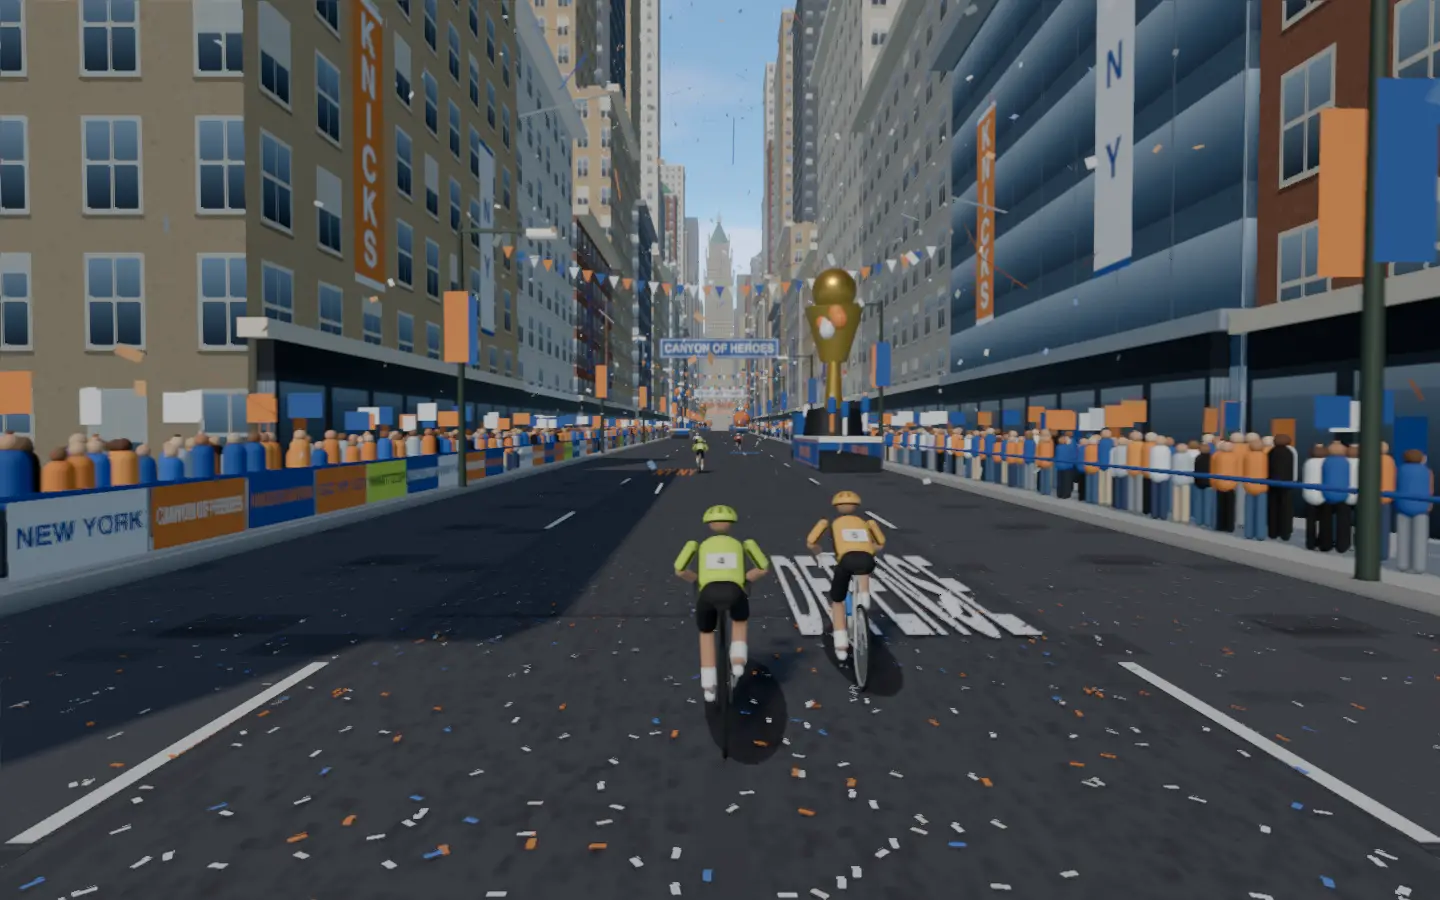
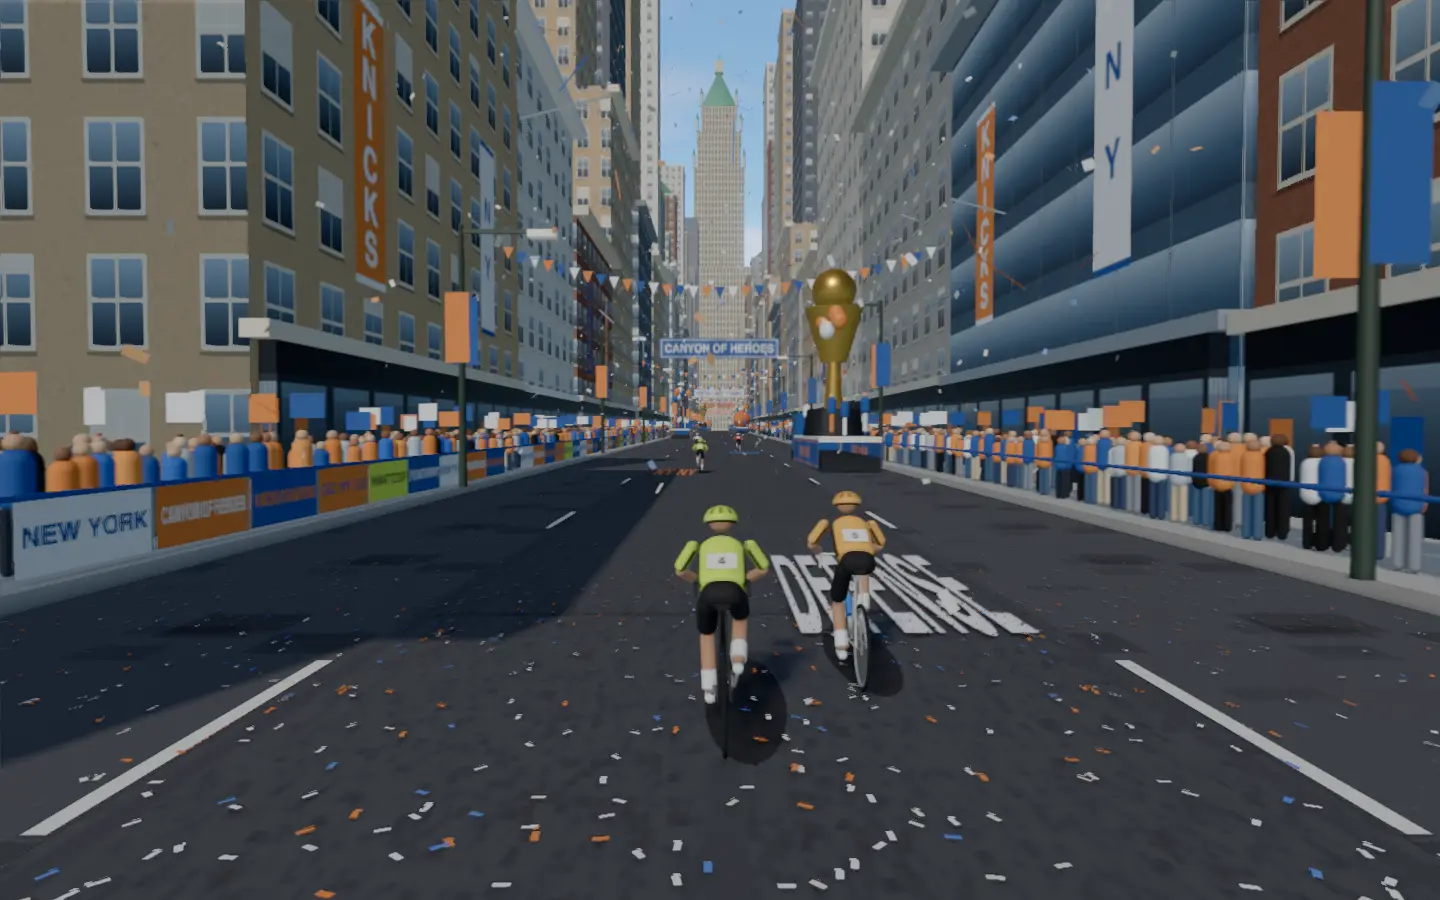
Raise the Woolworth Building over the Canyon of Heroes
The Woolworth stands 600 m ahead instead of 820 m, a quarter larger again,
with half the haze, and its verdigris crown lifted so it reads green against
the sky at the canyon's vanishing point.
Render quality 76% -> 80% (hero landmark 10 -> 13, description fidelity 7 -> 8).

diff --git a/frontend/projects/wattzup/src/app/core/world-knicks.ts b/frontend/projects/wattzup/src/app/core/world-knicks.ts
@@ -72,7 +72,7 @@ const STREAMERS = 320;
 const TAPE_SPAN = 170;
 const TAPE_TOP = 44;
 /** The Woolworth Building closes the canyon ahead, hazed by hand. */
-const WOOLWORTH_AHEAD = 820;
+const WOOLWORTH_AHEAD = 600;
 const HAZE = 0xbfcbd6;
 const ORANGE = '#f58426';
 const BLUE = '#1d4f9c';
@@ -819,9 +819,14 @@ export class KnicksStreet implements SceneStreet {
     const terra = this.track(terracottaTexture());
     terra.wrapS = RepeatWrapping;
     terra.wrapT = RepeatWrapping;
-    const cream = hazedMaterial(this.disposables, haze, 0xf1ead9, 0.28, { map: terra });
-    const plain = hazedMaterial(this.disposables, haze, 0xe9e1cd, 0.3);
-    const copper = hazedMaterial(this.disposables, haze, 0x5f9e86, 0.22, { metalness: 0.2 });
+    const cream = hazedMaterial(this.disposables, haze, 0xf1ead9, 0.14, { map: terra });
+    const plain = hazedMaterial(this.disposables, haze, 0xe9e1cd, 0.16);
+    // The verdigris crown catches the high sun, so it reads green against the sky.
+    const copper = hazedMaterial(this.disposables, haze, 0x5fae8e, 0.1, {
+      metalness: 0.2,
+      emissive: new Color(0x3f8a6c),
+      emissiveIntensity: 0.35,
+    });
     const w = this.woolworth;
     const stage = (width: number, height: number, depth: number, y: number) => {
       const geometry = new BoxGeometry(width, height, depth);
@@ -879,6 +884,7 @@ export class KnicksStreet implements SceneStreet {
     spire.scale.set(1.4, 2.8, 1.4);
     spire.position.y = 202;
     w.add(lantern, spire);
+    w.scale.setScalar(1.25);
     this.group.add(w);
   }
 

diff --git a/docs/class-worlds.md b/docs/class-worlds.md
@@ -13,7 +13,7 @@ Every class in `frontend/public/classes.json`, with its World Ride scene. Render
 | 7 | Calorie Burning Workout | South Beach Sunrise | 80% | Pastel art deco hotels with neon fins face palms, lifeguard towers and the Atlantic along Miami Beach's Ocean Drive at sunrise. The two-minute opener and the six short efforts each chase the rising sun up a rise toward the deco tower at the end of the drive. |
 | 8 | Intense Interval Blast | Caribana Parade | 55% | Toronto's Lake Shore Boulevard at Caribbean Carnival; steel pans and feathered masqueraders, each interval a surge between bands. |
 | 9 | Quick But Brutal HIIT | Trinidad J'Ouvert (concept) |  | Port of Spain before dawn at Carnival, paint and mud flying; each sprint breaks through a soca crowd. |
-| 10 | Sprintavals | Knicks Championship Parade | 76% | Ticker tape and orange and blue streamers drift down between the towers of lower Broadway's Canyon of Heroes as fans pack the barricades for the Knicks' championship parade, the Woolworth Building's copper crown rising at the far end. The four long builds reel in the floats rolling up Broadway, and the five ten-second sprints each jump from one float to the next before the last surge toward the Woolworth. |
+| 10 | Sprintavals | Knicks Championship Parade | 80% | Ticker tape and orange and blue streamers drift down between the towers of lower Broadway's Canyon of Heroes as fans pack the barricades for the Knicks' championship parade, the Woolworth Building's copper crown rising at the far end. The four long builds reel in the floats rolling up Broadway, and the five ten-second sprints each jump from one float to the next before the last surge toward the Woolworth. |
 | 11 | Time Is of the Essence | Westminster Rush Hour | 60% | London at dusk beneath Big Ben; race black cabs and red buses before the clock chimes. |
 | 12 | 15-Minute Smash Fest | Rio Sambadrome (concept) |  | Carnival night in Rio; glittering samba schools fill the runway and every smash rides the drum line. |
 | 13 | 10 On 20 Off Max Sprints | Venice Beach Boardwalk (concept) |  | Skaters, street performers and palm-lined sand; ten-second sprints, twenty seconds cruising the ocean breeze. |

diff --git a/docs/detailed-designs/world-ride/draw-class-scene/README.md b/docs/detailed-designs/world-ride/draw-class-scene/README.md
@@ -134,7 +134,7 @@ None.
   - blue-railed barricades hung with the parade's banners, packed behind with the shared crowd in orange and blue waving orange, blue and white flags; street lamps carrying banner pairs, banners slung across the canyon on wires and strings of orange, blue and white pennants;
   - six parade floats rolling up the outer lanes at 2.2 m/s, so the riders reel them in one after another: a blue tractor unit pulling a flatbed skirted in the parade's colours, carrying a giant basketball, a gold trophy or a champions' board, with balloons tied above and five players (`Figures`) jumping on the deck;
   - ticker tape (2,800 scraps) and streamers (320) falling, fluttering and tumbling through the canyon on the street's clock, held still under reduced motion;
-  - the canyon running on into the haze past the loop, and the Woolworth Building closing it ahead: its cream terra-cotta base, the tower stepping back with Gothic pinnacles at every corner, and its copper pyramid crown with a lantern and spire, hazed by hand.
+  - the canyon running on into the haze past the loop, and the Woolworth Building closing it 600 m ahead, about 300 m to the tip: its cream terra-cotta base, the tower stepping back with Gothic pinnacles at every corner, and its verdigris copper pyramid crown with a lantern and spire, lifted so it reads green against the sky, hazed lightly by hand.
 
   `lay`, `place` and `setTime` recycle it along a 480 m loop. Its far landmark is hazed with the kit's `hazedMaterial`, and its fronts are tiled with the kit's `scaleFaceUv`, both shared with South Beach.
 
